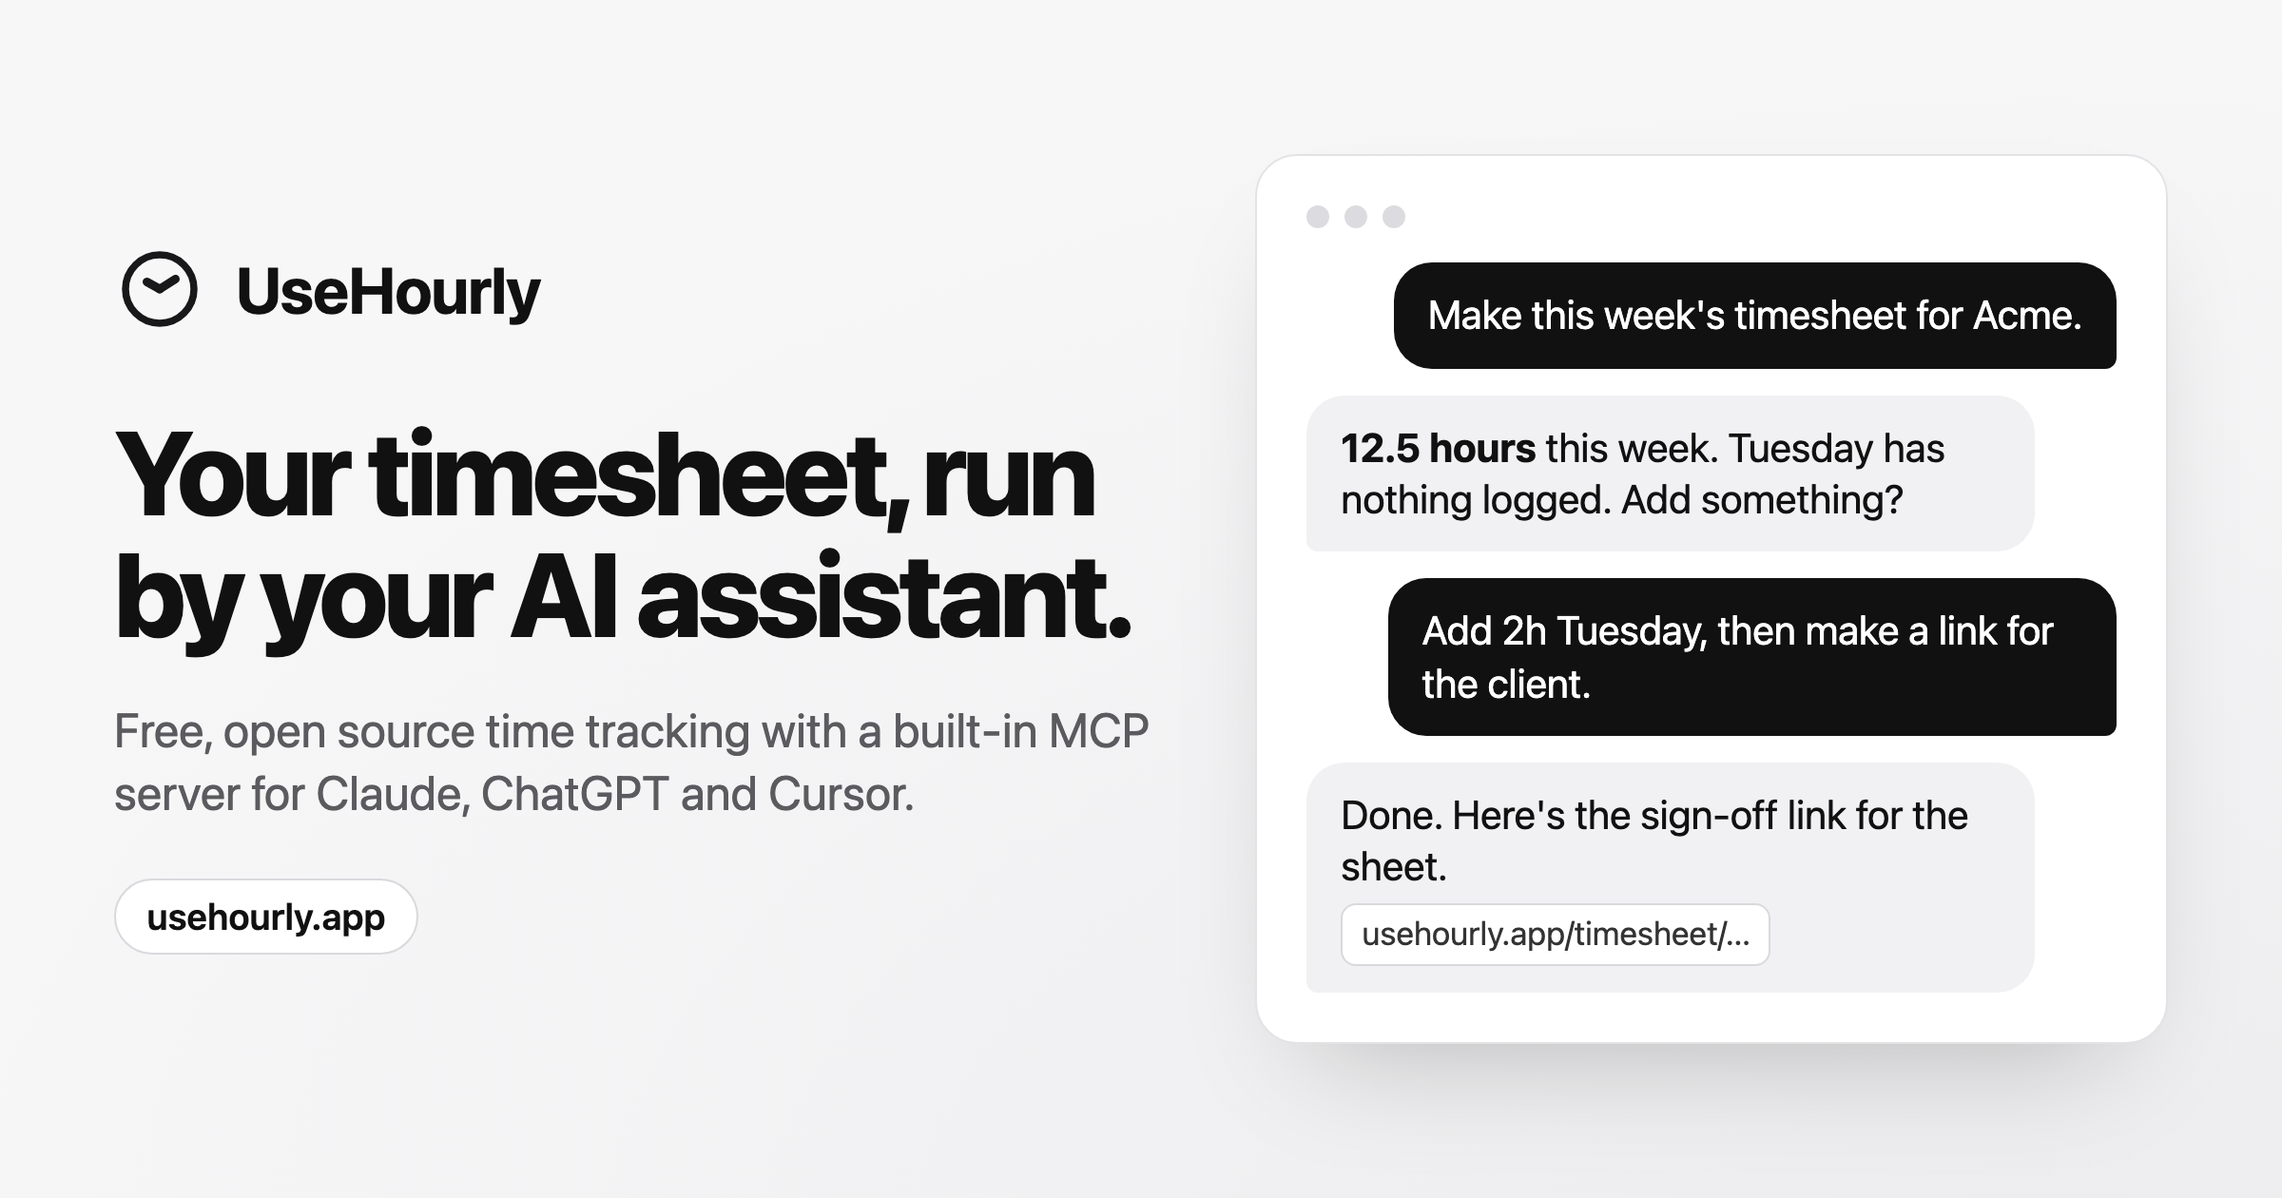
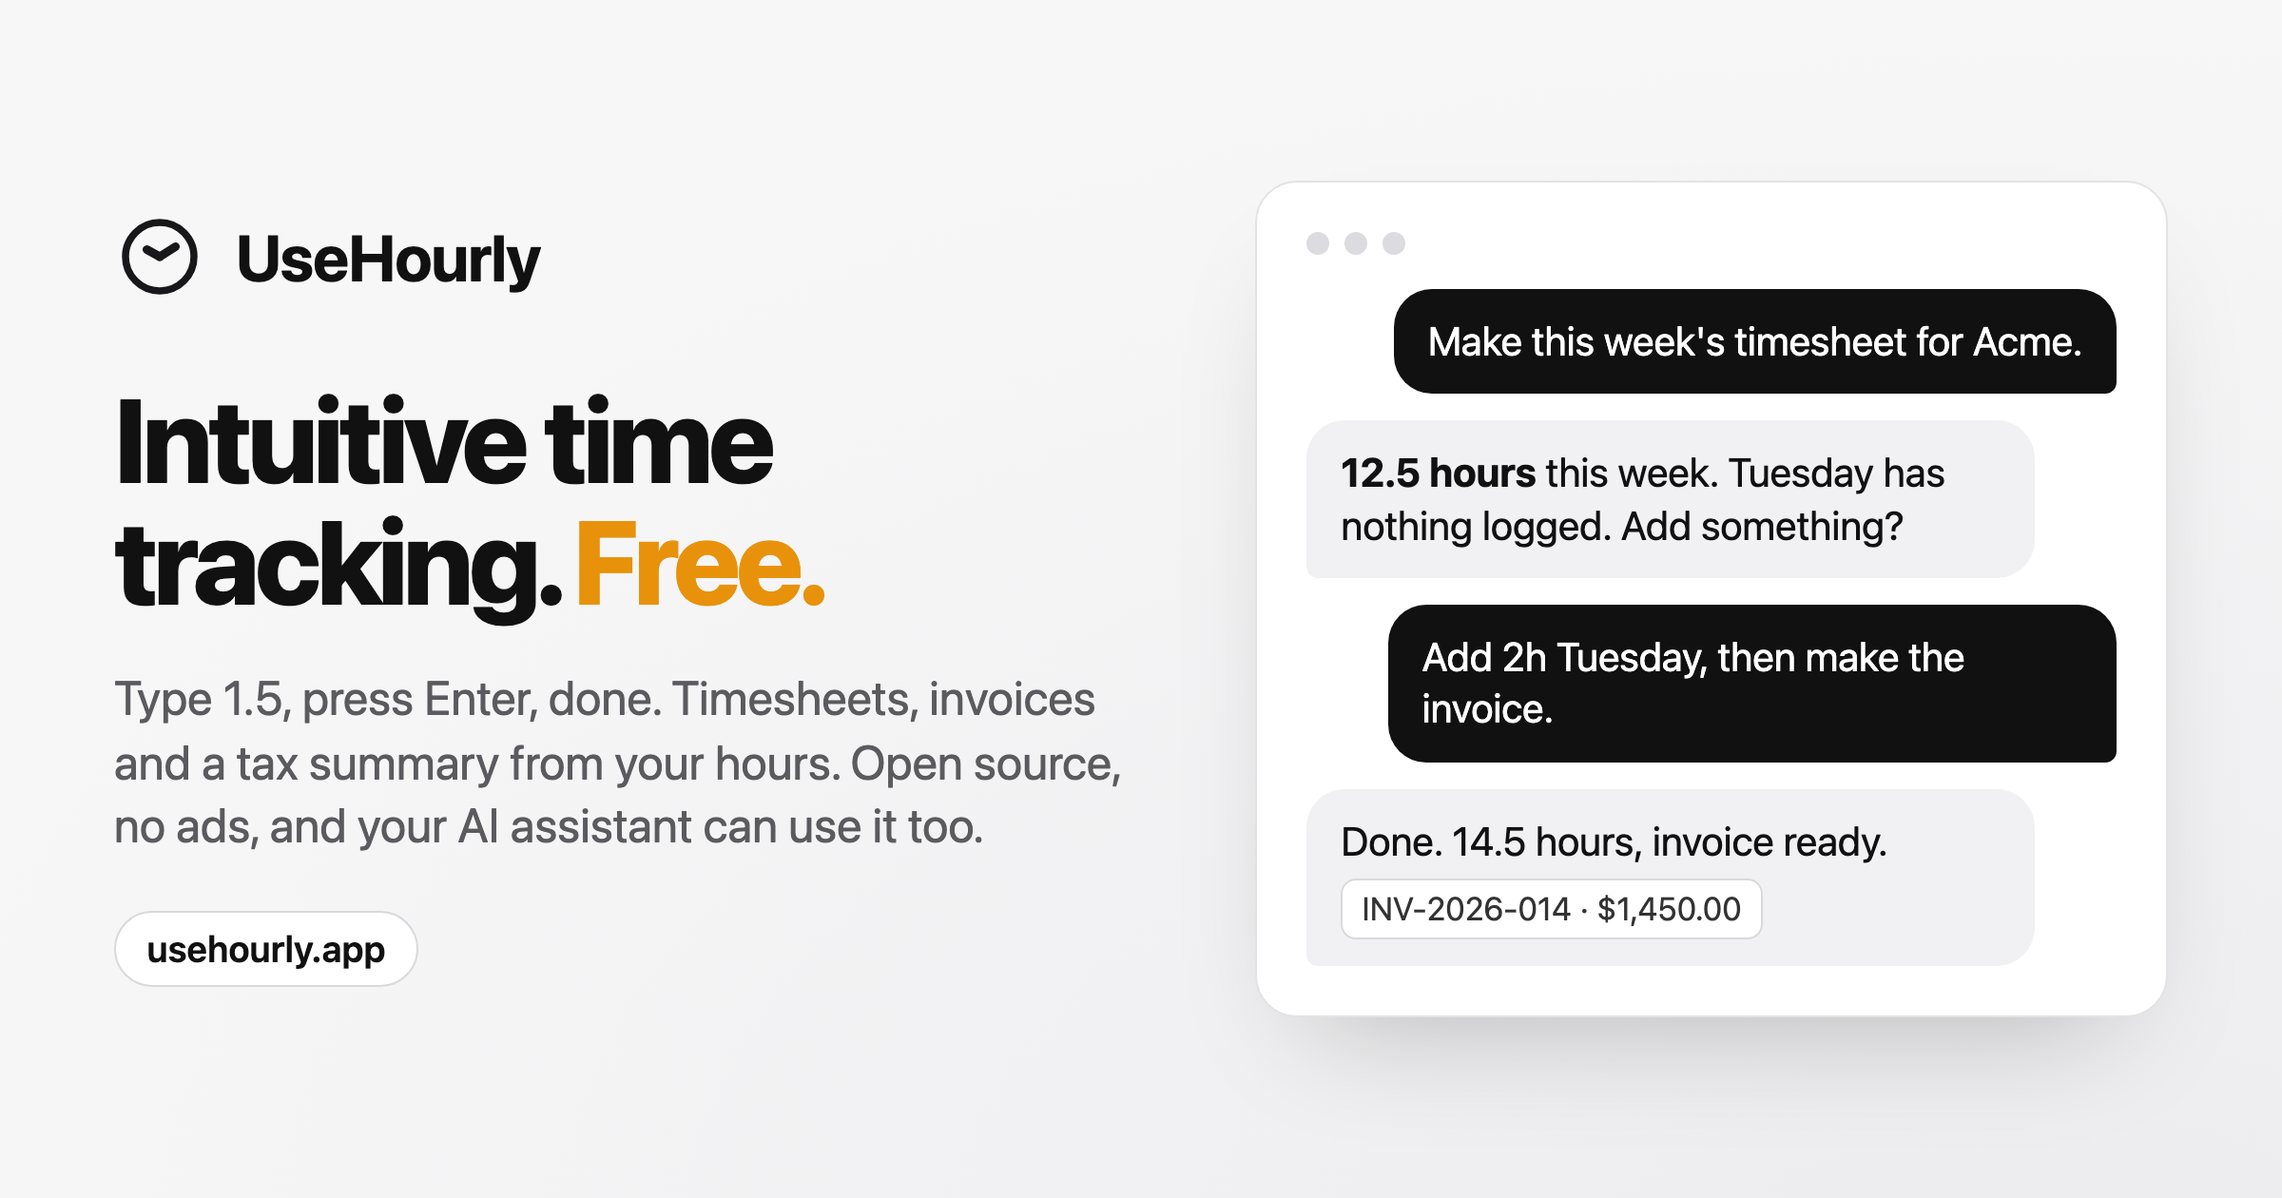
Home page shows only what this release has (#221, part)
- The terminal scene ends with three invoices (create_invoice) instead of
  sign-off links, which are switched off; the test now fails if the scene shows
  a sign-off link.
- The first story card draws the Log time moment (1.5, chips, day total,
  'Logged 1:30') instead of a stopwatch; digital-watch.tsx is gone.
- The quick-entry tile has the app's chips, not a REC timer.
- The link preview image has the new headline and ends with an invoice.

diff --git a/src/lib/assistant-script.ts b/src/lib/assistant-script.ts
@@ -25,11 +25,21 @@ const call = (tool: string, arg: string, ...result: Seg[]): Seg[] => [
   pause(450),
 ];
 
-export const TOOLS_SHOWN = ["list_clients", "get_timesheet", "log_time", "share_timesheet"] as const;
+export const TOOLS_SHOWN = ["list_clients", "get_timesheet", "log_time", "create_invoice"] as const;
 
+/** One invoice line under the create_invoice call: client, number and total (rates 100, 90 and 80 an hour). */
+const invoiceLine = (lead: string, client: string, number: string, amount: string, last = false): Seg[] => [
+  line("dim", lead),
+  line("ok", "✓ "),
+  line("text", client),
+  line("link", `${number}  ${amount}\n${last ? "\n" : ""}`),
+  pause(260),
+];
+
+// The ending makes invoices, a feature this release shows (it used to make sign-off links, which are switched off).
 export const SCRIPT: Seg[] = [
   type("prompt", "❯ "),
-  type("you", "Make last week's timesheet for every client. Flag any gaps, then give me sign-off links.\n"),
+  type("you", "Make last week's timesheet for every client. Flag any gaps, then make the invoices.\n"),
   pause(700),
   ...call("list_clients", "", line("text", "3 clients: Acme, Northwind, Fable Labs\n")),
   ...call(
@@ -51,34 +61,23 @@ export const SCRIPT: Seg[] = [
     line("ok", "every weekday logged ✓\n\n"),
   ),
   // The assistant asks before it acts: the question is in the terminal green, so it stands out.
-  line("ask", "Northwind is missing Tuesday. Should I add something, or share it as it is?\n\n"),
+  line("ask", "Northwind is missing Tuesday. Should I add something before I make the invoices?\n\n"),
   pause(900),
   type("prompt", "❯ "),
-  type("you", "Log 2h on Support for that Tuesday, then share all three.\n"),
+  type("you", "Log 2h on Support for that Tuesday, then make all three.\n"),
   pause(700),
   ...call("log_time", " Northwind / Support · Tue · 2h", line("ok", "✓ logged\n")),
   line("tool", "● "),
   line("server", "usehourly"),
   line("dim", " › "),
-  line("tool", "share_timesheet"),
-  line("arg", " ×3 · hours only · 30 days\n"),
+  line("tool", "create_invoice"),
+  line("arg", " ×3 · last week · not invoiced yet\n"),
   pause(500),
-  line("dim", "  ⎿  "),
-  line("ok", "✓ "),
-  line("text", "Acme       "),
-  line("link", "usehourly.app/timesheet/k7Qm…\n"),
-  pause(260),
-  line("dim", "     "),
-  line("ok", "✓ "),
-  line("text", "Northwind  "),
-  line("link", "usehourly.app/timesheet/p2Xa…\n"),
-  pause(260),
-  line("dim", "     "),
-  line("ok", "✓ "),
-  line("text", "Fable Labs "),
-  line("link", "usehourly.app/timesheet/9tLd…\n\n"),
-  pause(700),
-  line("text", "Done: 3 timesheets, 37 hours, 3 private links. Your clients can approve without an account.\n"),
+  ...invoiceLine("  ⎿  ", "Acme       ", "INV-2026-014", "$1,250.00"),
+  ...invoiceLine("     ", "Northwind  ", "INV-2026-015", "$900.00"),
+  ...invoiceLine("     ", "Fable Labs ", "INV-2026-016", "$1,160.00", true),
+  pause(440),
+  line("text", "Done: 37 hours, 3 invoices, $3,310.00. Each PDF is ready on your Invoices page.\n"),
 ];
 
 /** What the finished screen shows (no pauses): for the still picture and for a screen reader. */

diff --git a/src/components/landing-story.tsx b/src/components/landing-story.tsx
@@ -2,8 +2,6 @@
 
 import { useEffect, useRef, useState } from "react";
 
-import { DigitalWatch } from "@/components/digital-watch";
-
 const DAYS = ["M", "T", "W", "T", "F"];
 const BARS: [number, number][] = [
   [62, 18],
@@ -45,18 +43,36 @@ export function LandingStory() {
   return (
     <div ref={ref} className="grid gap-4 md:grid-cols-3">
       <article className="flex flex-col gap-4 rounded-3xl border bg-card p-6 shadow-[var(--shadow-sheet)]">
-        <div aria-hidden className="grid h-44 place-items-center">
-          <div className="w-60">
-            <DigitalWatch
-              mode={on ? { kind: "running", seconds: 2530, label: "Northwind" } : { kind: "total", minutes: 375 }}
-              label="A stopwatch running"
-            />
+        {/* The Log time moment as the app shows it: a time typed, the day total moving, then "Logged". */}
+        <div aria-hidden className="flex h-44 flex-col justify-center gap-3">
+          <div className="flex items-center gap-2">
+            <span className="flex h-11 flex-1 items-center rounded-xl bg-background px-3 font-mono text-lg ring-1 ring-foreground/15">
+              1.5
+              <span className="ml-0.5 inline-block h-5 w-0.5 animate-pulse bg-amber" />
+            </span>
+            <span
+              className={`flex h-11 items-center rounded-xl px-4 font-semibold text-sm transition-colors duration-500 ${
+                on ? "bg-success-soft text-success" : "bg-amber text-neutral-900"
+              }`}
+            >
+              {on ? "Logged 1:30 ✓" : "Log time"}
+            </span>
           </div>
+          <div className="flex flex-wrap gap-1.5">
+            {["15m", "30m", "1h", "2h", "4h"].map((c) => (
+              <span key={c} className="rounded-full bg-muted px-2.5 py-1 font-mono text-xs">
+                {c}
+              </span>
+            ))}
+          </div>
+          <p className="font-mono text-muted-foreground text-xs">
+            Day total 4:15 → <span className="font-semibold text-foreground">5:45</span>
+          </p>
         </div>
         <div>
           <h3 className="font-bold font-display text-xl">Log a day in seconds</h3>
           <p className="mt-1 text-muted-foreground">
-            Type 1.5 or 90m and press Enter, or start the stopwatch and file what it hands you when you stop.
+            Type 1.5 or 90m and press Enter, or tap a chip. The day total updates as you type.
           </p>
         </div>
       </article>

diff --git a/src/__tests__/assistant-script.test.ts b/src/__tests__/assistant-script.test.ts
@@ -23,21 +23,26 @@ describe("the home page terminal scene", () => {
     expect(FINISHED_TEXT).toContain("14:30 h");
     expect(FINISHED_TEXT).toContain("2h");
     expect(12.5 + (8 + 2) + 14.5).toBe(37);
-    expect(FINISHED_TEXT).toContain("3 timesheets, 37 hours, 3 private links");
+    expect(FINISHED_TEXT).toContain("37 hours, 3 invoices, $3,310.00");
+    // 12:30 at $100, 10:00 at $90, 14:30 at $80
+    expect(12.5 * 100 + 10 * 90 + 14.5 * 80).toBe(3310);
+    for (const amount of ["$1,250.00", "$900.00", "$1,160.00"]) expect(FINISHED_TEXT).toContain(amount);
   });
 
-  it("asks before it shares: the question comes before the share call, and the answer is typed by the person", () => {
+  it("asks before it bills: the question comes before the invoice call, and the answer is typed by the person", () => {
     const text = FINISHED_TEXT;
     expect(text.indexOf("Should I add something")).toBeGreaterThan(-1);
-    expect(text.indexOf("Should I add something")).toBeLessThan(text.indexOf("share_timesheet"));
+    expect(text.indexOf("Should I add something")).toBeLessThan(text.indexOf("create_invoice"));
     const typed = SCRIPT.filter((s) => s.k === "type" && s.c === "you").map(said);
     expect(typed).toHaveLength(2);
   });
 
-  it("shows three private links, never a real token, and a finished screen without pauses", () => {
-    const links = FINISHED.filter((p) => p.c === "link").map((p) => p.t);
-    expect(links).toHaveLength(3);
-    for (const l of links) expect(l).toMatch(/^usehourly\.app\/timesheet\/\w{4}…\n*$/);
+  it("shows three invoices with numbers in a row, no hidden feature, and a finished screen without pauses", () => {
+    const made = FINISHED.filter((p) => p.c === "link").map((p) => p.t);
+    expect(made).toHaveLength(3);
+    for (const [n, l] of made.entries()) expect(l).toMatch(new RegExp(`^INV-2026-01${4 + n}  \\$[\\d,]+\\.00\\n*$`));
+    // sign-off links are switched off in this release, so the scene never shows one
+    expect(FINISHED_TEXT).not.toMatch(/timesheet\/|share_timesheet|sign-off/);
     expect(FINISHED.every((p) => typeof p.t === "string")).toBe(true);
   });
 });

diff --git a/scripts/social/share.html b/scripts/social/share.html
@@ -29,15 +29,15 @@
       <svg viewBox="0 0 64 64" fill="none" stroke="#18181b" stroke-linecap="round"><circle cx="32" cy="32" r="24" stroke-width="5"/><path d="M32 32L23 27M32 32L43 25" stroke-width="6"/><circle cx="32" cy="32" r="3" fill="#18181b" stroke="none"/></svg>
       UseHourly
     </div>
-    <h1>Your timesheet, run by your AI assistant.</h1>
-    <p class="sub">Free, open source time tracking with a built-in MCP server for Claude, ChatGPT and Cursor.</p>
+    <h1>Intuitive time tracking. <span style="color:#e8920b">Free.</span></h1>
+    <p class="sub">Type 1.5, press Enter, done. Timesheets, invoices and a tax summary from your hours. Open source, no ads, and your AI assistant can use it too.</p>
     <span class="pill">usehourly.app</span>
   </div>
   <div class="card" aria-hidden="true">
     <div class="bar"><i></i><i></i><i></i></div>
     <div class="b me">Make this week's timesheet for Acme.</div>
     <div class="b ai"><b>12.5 hours</b> this week. Tuesday has nothing logged. Add something?</div>
-    <div class="b me">Add 2h Tuesday, then make a link for the client.</div>
-    <div class="b ai">Done. Here's the sign-off link for the sheet.<br><span class="link">usehourly.app/timesheet/…</span></div>
+    <div class="b me">Add 2h Tuesday, then make the invoice.</div>
+    <div class="b ai">Done. 14.5 hours, invoice ready.<br><span class="link">INV-2026-014 · $1,450.00</span></div>
   </div>
 </body>

diff --git a/src/components/landing-feature-art.tsx b/src/components/landing-feature-art.tsx
@@ -5,7 +5,6 @@ import type { ReactNode } from "react";
 const AMBER = "#F5A524";
 const GREEN = "#3DDC97";
 const VIOLET = "#8A6CFF";
-const CORAL = "#ff7a45";
 
 function Pad({ children }: { children: ReactNode }) {
   return (
@@ -30,11 +29,9 @@ export function QuickEntryArt() {
           <kbd className="rounded-md bg-muted px-1.5 py-0.5 text-[11px] text-muted-foreground">↵</kbd>
         </div>
         <div className="flex items-center gap-1.5">
-          <span className="flex items-center gap-1 rounded-full bg-foreground px-2.5 py-1 text-[11px] text-background">
-            <span className="size-1.5 rounded-full" style={{ backgroundColor: CORAL }} />
-            REC 0:42:10
-          </span>
-          {["+ 30 min", "+ 1 hour"].map((t) => (
+          {/* the quick-time chips as the app writes them; tapping one again adds it again */}
+          <span className="rounded-full bg-foreground px-2.5 py-1 text-[11px] text-background">2h ×2 = 4h</span>
+          {["30m", "1h"].map((t) => (
             <span
               key={t}
               className="rounded-full bg-card px-2.5 py-1 text-[11px] text-muted-foreground ring-1 ring-foreground/10"

diff --git a/src/components/landing-features.tsx b/src/components/landing-features.tsx
@@ -10,8 +10,8 @@ type Tile = { title: string; body: string; art: ReactNode; wide?: boolean; full?
 /** What the first release does, each with a small picture of itself (hidden features are not advertised). */
 const TILES: Tile[] = [
   {
-    title: "Quick entry and a stopwatch",
-    body: "Type 1h30 and press Enter, or start the stopwatch. When you stop it, it hands you the entry to file.",
+    title: "Quick entry, no stopwatch needed",
+    body: "Type 1h30 and press Enter, or tap 2h twice for four hours. A timer is there if you like one.",
     art: <QuickEntryArt />,
     wide: true,
   },

diff --git a/e2e/assistant-terminal.spec.ts b/e2e/assistant-terminal.spec.ts
@@ -19,7 +19,7 @@ test.describe("assistant terminal on the home page", () => {
     await page.goto("/");
     const screen = page.locator("#ai-assistants pre");
     await screen.scrollIntoViewIfNeeded();
-    await expect(screen).toContainText("3 timesheets, 37 hours, 3 private links");
-    await expect(screen).toContainText("usehourly.app/timesheet/");
+    await expect(screen).toContainText("37 hours, 3 invoices, $3,310.00");
+    await expect(screen).toContainText("INV-2026-016");
   });
 });

diff --git a/CLAUDE.md b/CLAUDE.md
@@ -39,7 +39,7 @@ Secrets: `AUTH_SECRET`, `AUTH_URL` in `.env.local` and `.dev.vars` (keep in sync
 ## First release: what ships, and the redesign (2026-10-23, branch `audit-text-polish`)
 **This section is the current truth; older sections below are history where they disagree.**
 - **Feature switches:** `src/lib/features.ts` (`FEATURES`, `feature(name)`) hides the extras for the first release. Hidden (all `false`): calendar import, Team, AI Polish, "Keep a copy on this device", Xero/QuickBooks export, CSV import, project budgets, per-client currency, billing rounding, emailing invoices + overdue reminders, sign-off timesheet links, "Email me this" on the Year summary, the Friday reminder, swipe navigation, merging entries, non-billable DAYS (non-billable projects stay), "Add to several days", appearance extras (font, layout, menu position: only light/dark stays), profile pictures. Hidden means: no button, card, menu item, setting, search result (`lib/global-search.ts` filters by switch) or guide topic (`content/guide`: `feature` on a topic; `TOPICS`/`FAQ` are the visible ones, `ALL_TOPICS` everything), and their pages answer not found (`/dashboard/team`, `/team/*`). Server code, routers and unit tests stay, so turning one on is changing `false` to `true` (then re-check its guide topic and its e2e spec, which skips itself on the switch).
-- **No clocks (2026-10-23):** the app draws no watch or clock any more (the Week clock told the time of day and today's date beside another week; the big watch on Today took a column for a timer most people never use). Today's timer is a slim strip; Week shows "h:mm of 40:00 this week" with a progress line. Figures elsewhere use a progress line (`components/goal-summary.tsx`) or thin bars (`ShareBar`). `components/explorer-watch.tsx` was deleted; `components/digital-watch.tsx` (the D-1) is only the picture in the home page story.
+- **No clocks (2026-10-23):** the app draws no watch or clock any more (the Week clock told the time of day and today's date beside another week; the big watch on Today took a column for a timer most people never use). Today's timer is a slim strip; Week shows "h:mm of 40:00 this week" with a progress line. Figures elsewhere use a progress line (`components/goal-summary.tsx`) or thin bars (`ShareBar`). `components/explorer-watch.tsx` was deleted, and `components/digital-watch.tsx` too (2026-10-23): the home page story now draws the Log time moment instead of a stopwatch.
 - **Today:** the week as one row of day buttons (`components/week-pills.tsx`, also on Week; dashed "No time" gaps for past weekdays with nothing logged, amber ring = picked day, amber dot = today), then ONE column (`today-layout.tsx`): the timer strip, the Log time form, "Today's timesheet". The timer strip (`components/timer-control.tsx`: `useTodayTimer`, `TimerControls`, region "Timer") shows only on today's date: idle = Start timer and the project it starts on; running = h:mm:ss, the project, Stop timer, a description box, "Started earlier?" and after 4 hours "Still working?"; stopped = the time ticket (`time-ticket.tsx`: − / + 5 min, Add to timesheet · Resume timer · Discard time). On another day a running timer shows as `TimerPanel` (Stop). `entry.resume({id})` restarts a stopped entry (the next stop adds to what it holds). Running time counts live in the header totals, the strip and the timesheet.
 - **The Log time form, one layout everywhere (2026-10-23 redesign, `quick-add.tsx`):** Today, Week's day panel and the day dialog show the same form (the `wide` two-column mode is gone): the time field first (with a clear ×) and **Log time** beside it from 640px (at the foot on a phone), the quick-time chips, then "on" and the project as ONE row of pills (`project-picker.tsx`: the picked pill is filled in its client's colour with a check and gives a halo when picked; up to 5 projects are all pills, from 6 there are 4 pills and "More…", which opens the search as a drop-down on a computer or a dialog on a phone; "/" opens it; a star on a search row pins that project as a pill (`hourly:pinnedProjects`, up to 6 pills); the pill order is fixed while the page is open (`hourly:recentProjects` is read at load), and a project picked from the search shows as the first pill; the pills are one radio group (one Tab stop, arrow keys move and pick); after a pick from the search the focus goes to the time box; the big "you are logging to" row is gone), then the description. After a save the button says "Logged 1:00" (taken back if the server refuses it) with a check for a moment (its accessible name stays "Log time"), and the help line under the time shows only for this browser's first 3 entries (`hourly:loggedCount`). The day tiles' hours count up when time is added (`DayHours` in `week-pills.tsx`). Tests: `e2e/log-form.spec.ts`, `e2e/project-search.spec.ts` (adds two projects with `addProjects`).
 - **Adding time is a small reward (2026-10-23, `components/time-reward.ts`):** a quick-time chip sends a "+2h" token into the time field, the field gives a halo in the chip's colour, the value and the "Day total" line roll up, and Log time spins its clock icon and makes the new row glow. Decoration only: the value is set at once (Enter mid-roll saves the final value), and "reduce motion" turns all of it off. A round × at the right of the time field clears it. Test: `e2e/time-field-reward.spec.ts`.
